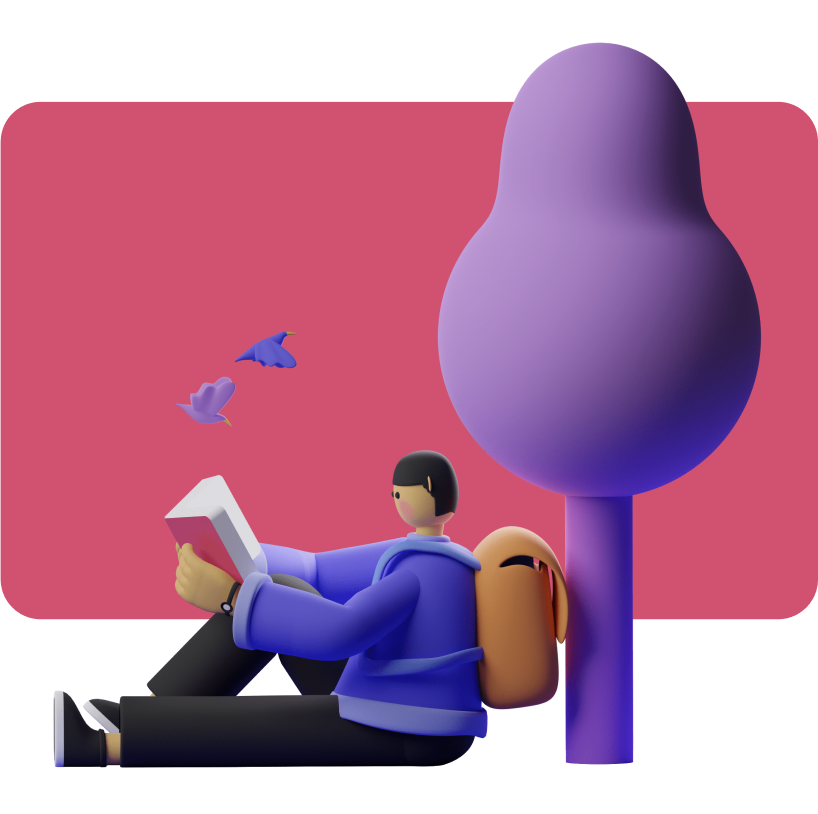
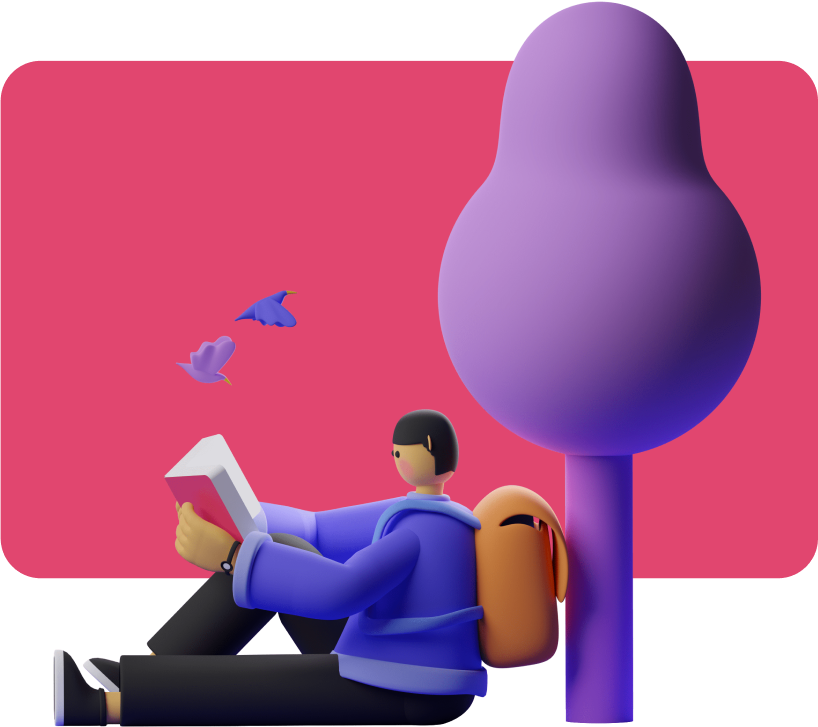
Presentation text index & fix mineurs

diff --git a/index.html b/index.html
@@ -9,9 +9,11 @@
 </head>
 <body>
     <header>
-        <a href="index.html">
-            <img src="img/logo.png" class="logo">
-        </a>
+        <div class="logo">
+            <a href="index.html">
+                <img src="img/logo.png"> 
+            </a>
+        </div>
         <div class="nav">
             <a href="index.html">
                 <div class="boutton1">
@@ -35,6 +37,47 @@
             </a>
         </div>
     </header>
+
+    <div class="pres">
+        <div class="titre">
+            Bienvenue sur le blog!
+        </div>
+        <div class="soustitre">
+            Lorem ipsum
+        </div>
+        <p>
+            Lorem ipsum dolor, sit amet consectetur adipisicing elit. Maiores impedit sunt odio dolores! Beatae, officia. Delectus amet, molestiae non, autem libero natus laboriosam, error hic porro tenetur eos dolores molestias!
+        </p>
+        <div class="reseauxlink">
+            <a href="https://twitter.com/cats">
+                <div class="reseaux">
+                    <div class="twitter">
+                        <img src="img/twitter.png" class="reseauxlogo">
+                        TWITTER
+                    </div>
+                </div>
+            </a>
+            <a href="https://www.linkedin.com/company/cats">
+                <div class="reseaux">
+                    <div class="linkedin">
+                        <img src="img/linkedin.png" class="reseauxlogo">
+                        LINKEDIN
+                    </div>
+                </div>
+            </a>
+            <a href="https://medium.com/@cats">
+                <div class="reseaux">
+                    <div class="medium">
+                        <img src="img/medium.png" class="reseauxlogo">
+                        MEDIUM
+                    </div>
+                </div>
+            </a>
+        </div>
+        <div class="mainimg">
+            <img src="img/illustration.png" class="mainimgsize">
+        </div>
+    </div>
     
     <main>
         <div>

diff --git a/index.css b/index.css
@@ -13,10 +13,16 @@ header {
     height: 14%;
     width: 70%;
 }
+p {
+    margin-top: 40px;
+    color: #4e4e4e;
+    font-size: 18px;
+    width: 40%;
+}
 .logo {
     margin-left: 10%;
-    margin-top: -1%;
-    width: 13%;
+    margin-top: 1.25%;
+    width: 10%;
 }
 .nav {
     position: absolute;
@@ -54,9 +60,82 @@ header {
     font-weight: 1000;
 }
 
-
 main.div{
     display: flex;
 
-
+}
+.pres {
+    position: absolute;
+    margin-left: 21.5%;
+    margin-top: 15%;
+}
+.titre {
+    color: #d05270;
+    font-size: 2vw;
+    font-weight: 1000;
+}
+.soustitre {
+    font-size: 1.75vw;
+    color: #4d4d4d;
+    font-weight: 500;
+}
+.reseaux {
+    width: 100%;
+    height: 100%;
+    align-items: center;
+    justify-content: center;
+    text-align: center;
+    display: flex;
+    color: white;
+    font-weight: 600;
+}
+.reseauxlink {
+    width: fit-content;
+    height: fit-content;
+    display: flex;
+}
+.twitter {
+    background-color: #47acdf;
+    width: 10vw;
+    height: 50px;
+    align-items: center;
+    justify-content: center;
+    text-align: center;
+    display: flex;
+    font-size: 0.8vw;
+}
+.linkedin {
+    background-color: #1275b1;
+    width: 10vw;
+    height: 50px;
+    align-items: center;
+    justify-content: center;
+    text-align: center;
+    display: flex;
+    font-size: 0.8vw;
+    margin-left: 1vw;
+}
+.medium {
+    background-color: black;
+    width: 10vw;
+    height: 50px;
+    align-items: center;
+    justify-content: center;
+    text-align: center;
+    display: flex;
+    font-size: 0.8vw;
+    margin-left: 1vw;
+}
+.reseauxlogo {
+    height: 19px;
+    margin-right: 20px;
+}
+.mainimg {
+    position: absolute;
+    top: 0px;
+    margin-top: -26px;
+    left: 45%;
+}
+.mainimgsize {
+    height: 300px;
 }

diff --git a/apropos.html b/apropos.html
@@ -4,15 +4,17 @@
     <meta charset="UTF-8">
     <meta http-equiv="X-UA-Compatible" content="IE=edge">
     <meta name="viewport" content="width=device-width, initial-scale=1.0">
-    <title>Blog Squedrong Accueil</title>
-    <link rel="stylesheet" href="index.css">
+    <title>Blog Squedrong A propos</title>
+    <link rel="stylesheet" href="apropos.css">
     <link rel="shortcut icon" href="img/favicon.png" type="image/x-icon">
 </head>
 <body>
     <header>
-        <a href="index.html">
-            <img src="img/logo.png" class="logo">
-        </a>
+        <div class="logo">
+            <a href="index.html">
+                <img src="img/logo.png"> 
+            </a>
+        </div>
         <div class="nav">
             <a href="index.html">
                 <div class="boutton">

diff --git a/contact.html b/contact.html
@@ -4,15 +4,17 @@
     <meta charset="UTF-8">
     <meta http-equiv="X-UA-Compatible" content="IE=edge">
     <meta name="viewport" content="width=device-width, initial-scale=1.0">
-    <title>Blog Squedrong Accueil</title>
-    <link rel="stylesheet" href="index.css">
+    <title>Blog Squedrong Contact</title>
+    <link rel="stylesheet" href="contact.css">
     <link rel="shortcut icon" href="img/favicon.png" type="image/x-icon">
 </head>
 <body>
     <header>
-        <a href="index.html">
-            <img src="img/logo.png" class="logo">
-        </a>
+        <div class="logo">
+            <a href="index.html">
+                <img src="img/logo.png"> 
+            </a>
+        </div>
         <div class="nav">
             <a href="index.html">
                 <div class="boutton">

diff --git a/cv.html b/cv.html
@@ -4,15 +4,17 @@
     <meta charset="UTF-8">
     <meta http-equiv="X-UA-Compatible" content="IE=edge">
     <meta name="viewport" content="width=device-width, initial-scale=1.0">
-    <title>Blog Squedrong Accueil</title>
-    <link rel="stylesheet" href="index.css">
+    <title>Blog Squedrong CV</title>
+    <link rel="stylesheet" href="cv.css">
     <link rel="shortcut icon" href="img/favicon.png" type="image/x-icon">
 </head>
 <body>
     <header>
-        <a href="index.html">
-            <img src="img/logo.png" class="logo">
-        </a>
+        <div class="logo">
+            <a href="index.html">
+                <img src="img/logo.png"> 
+            </a>
+        </div>
         <div class="nav">
             <a href="index.html">
                 <div class="boutton">

diff --git a/apropos.css b/apropos.css
@@ -15,8 +15,8 @@ header {
 }
 .logo {
     margin-left: 10%;
-    margin-top: -1%;
-    width: 13%;
+    margin-top: 1.25%;
+    width: 10%;
 }
 .nav {
     position: absolute;

diff --git a/contact.css b/contact.css
@@ -15,8 +15,8 @@ header {
 }
 .logo {
     margin-left: 10%;
-    margin-top: -1%;
-    width: 13%;
+    margin-top: 1.25%;
+    width: 10%;
 }
 .nav {
     position: absolute;

diff --git a/cv.css b/cv.css
@@ -15,8 +15,8 @@ header {
 }
 .logo {
     margin-left: 10%;
-    margin-top: -1%;
-    width: 13%;
+    margin-top: 1.25%;
+    width: 10%;
 }
 .nav {
     position: absolute;
